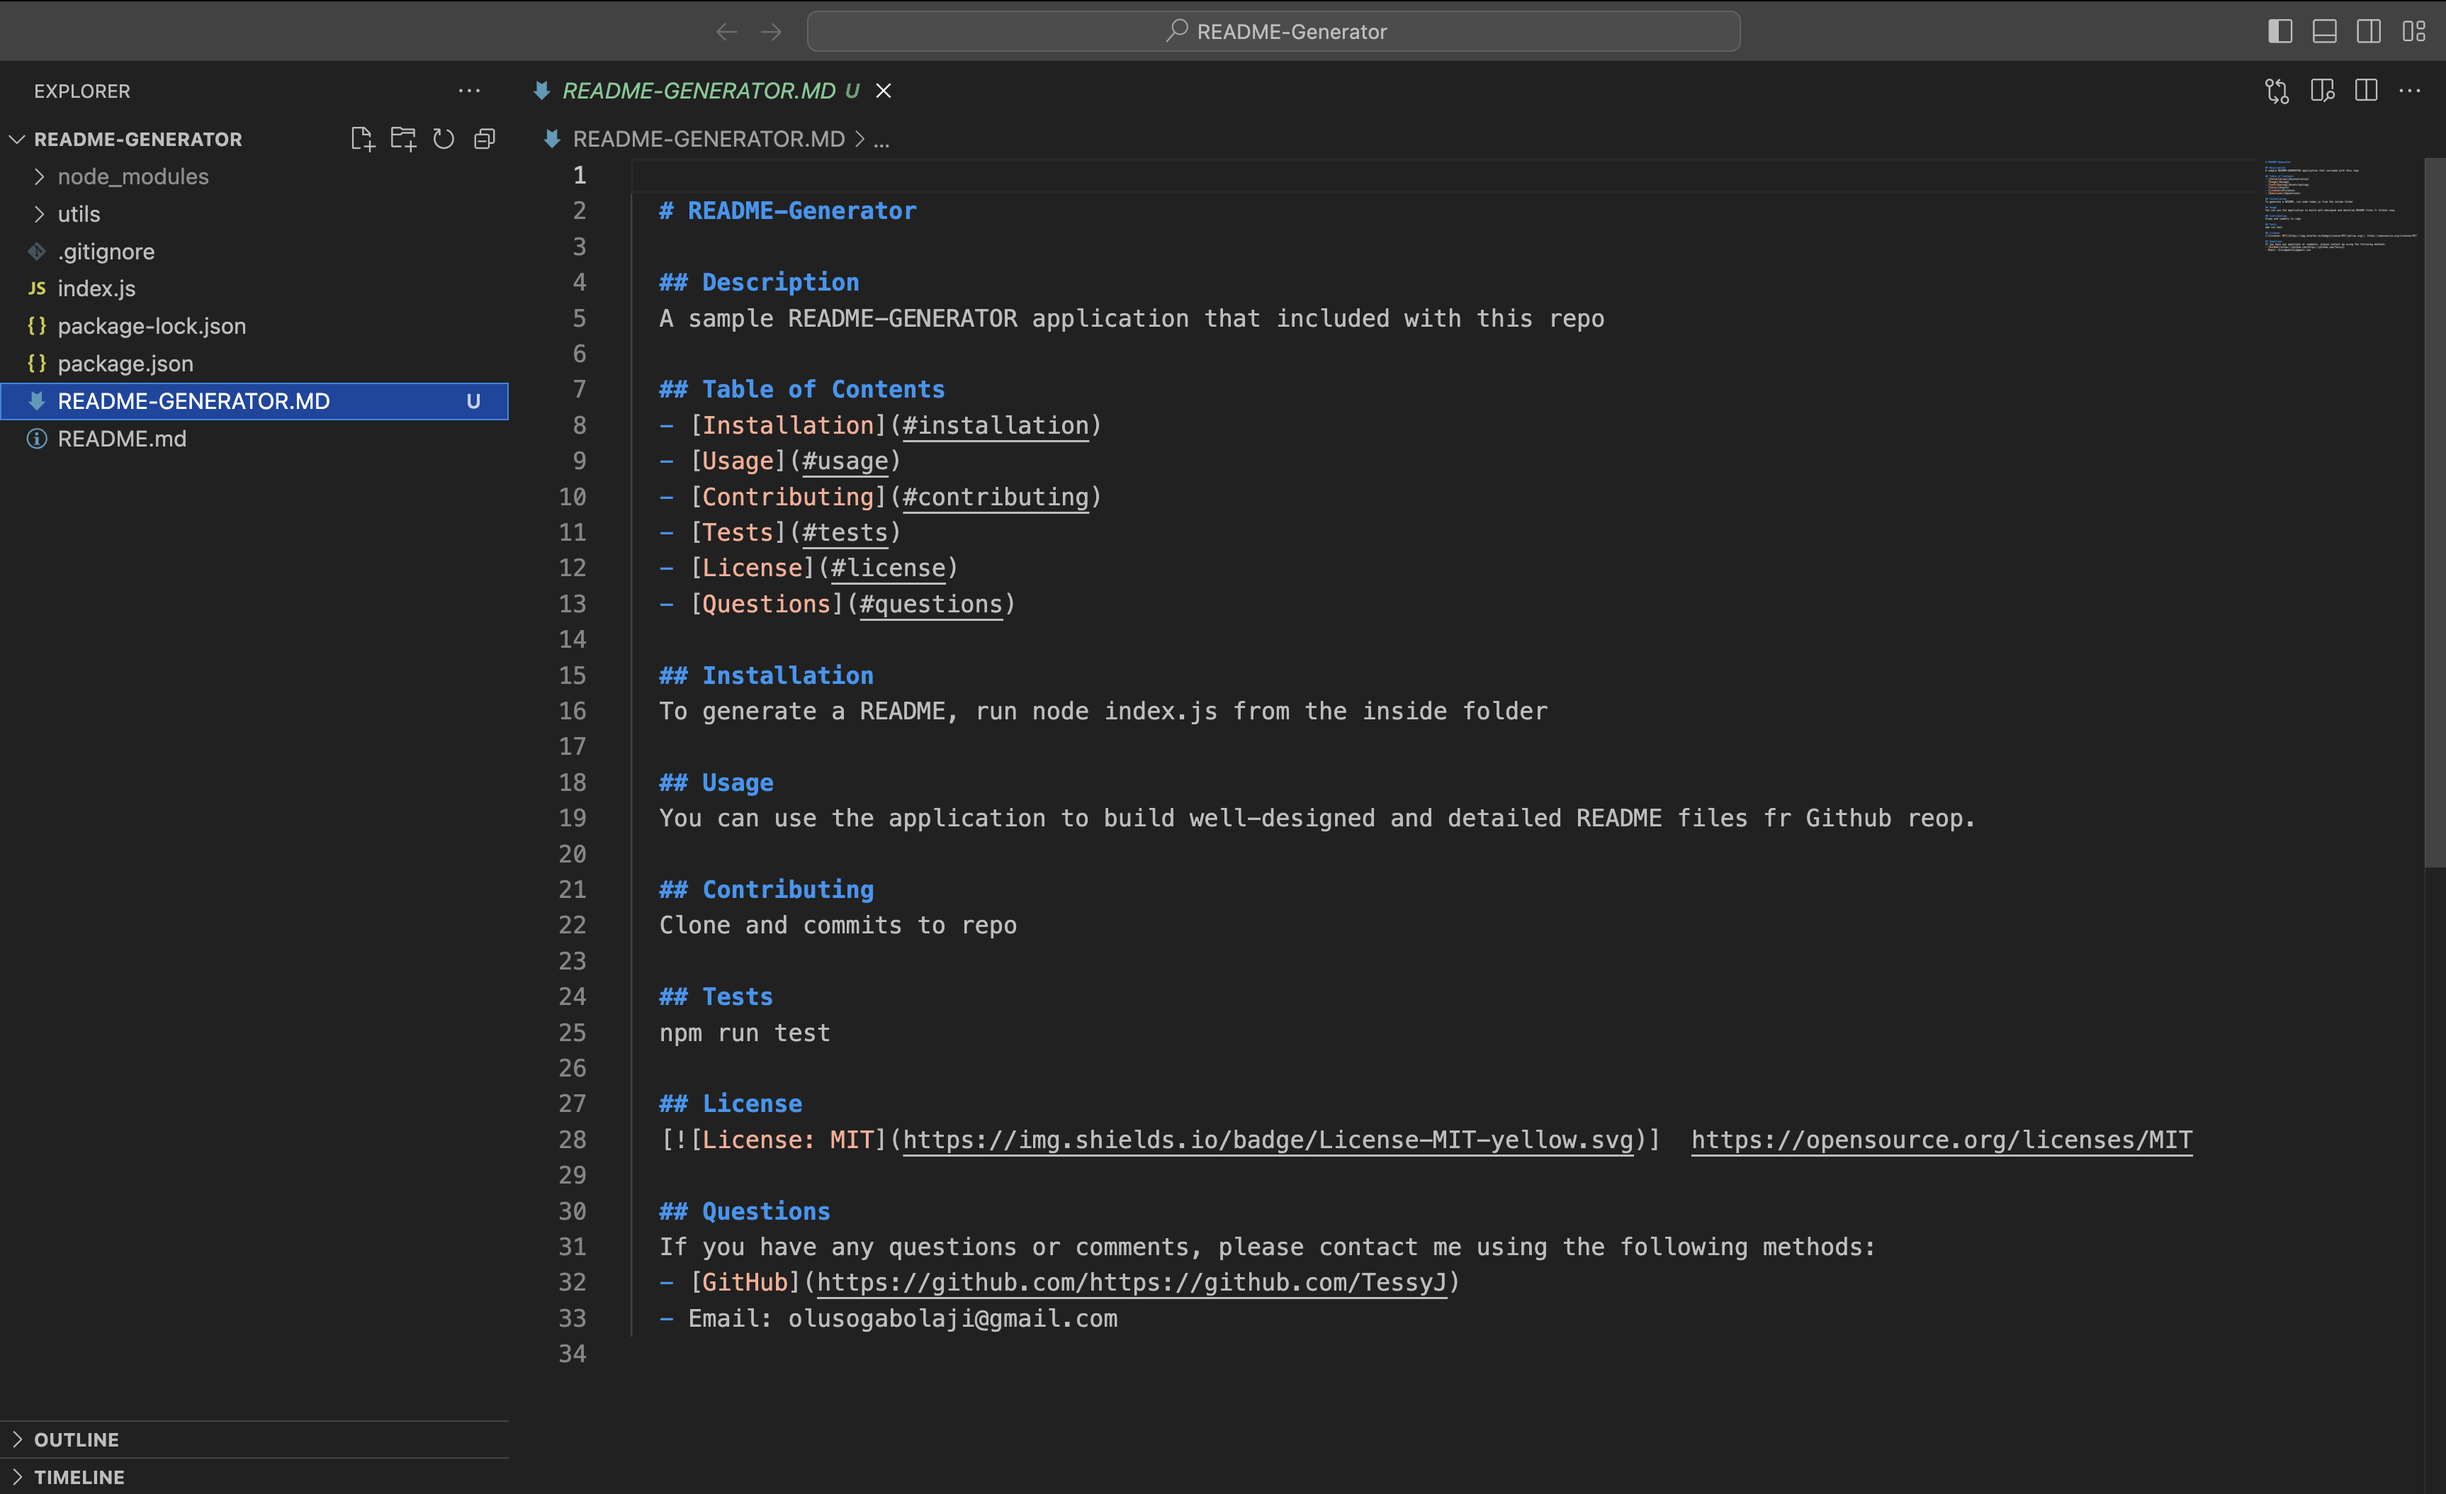
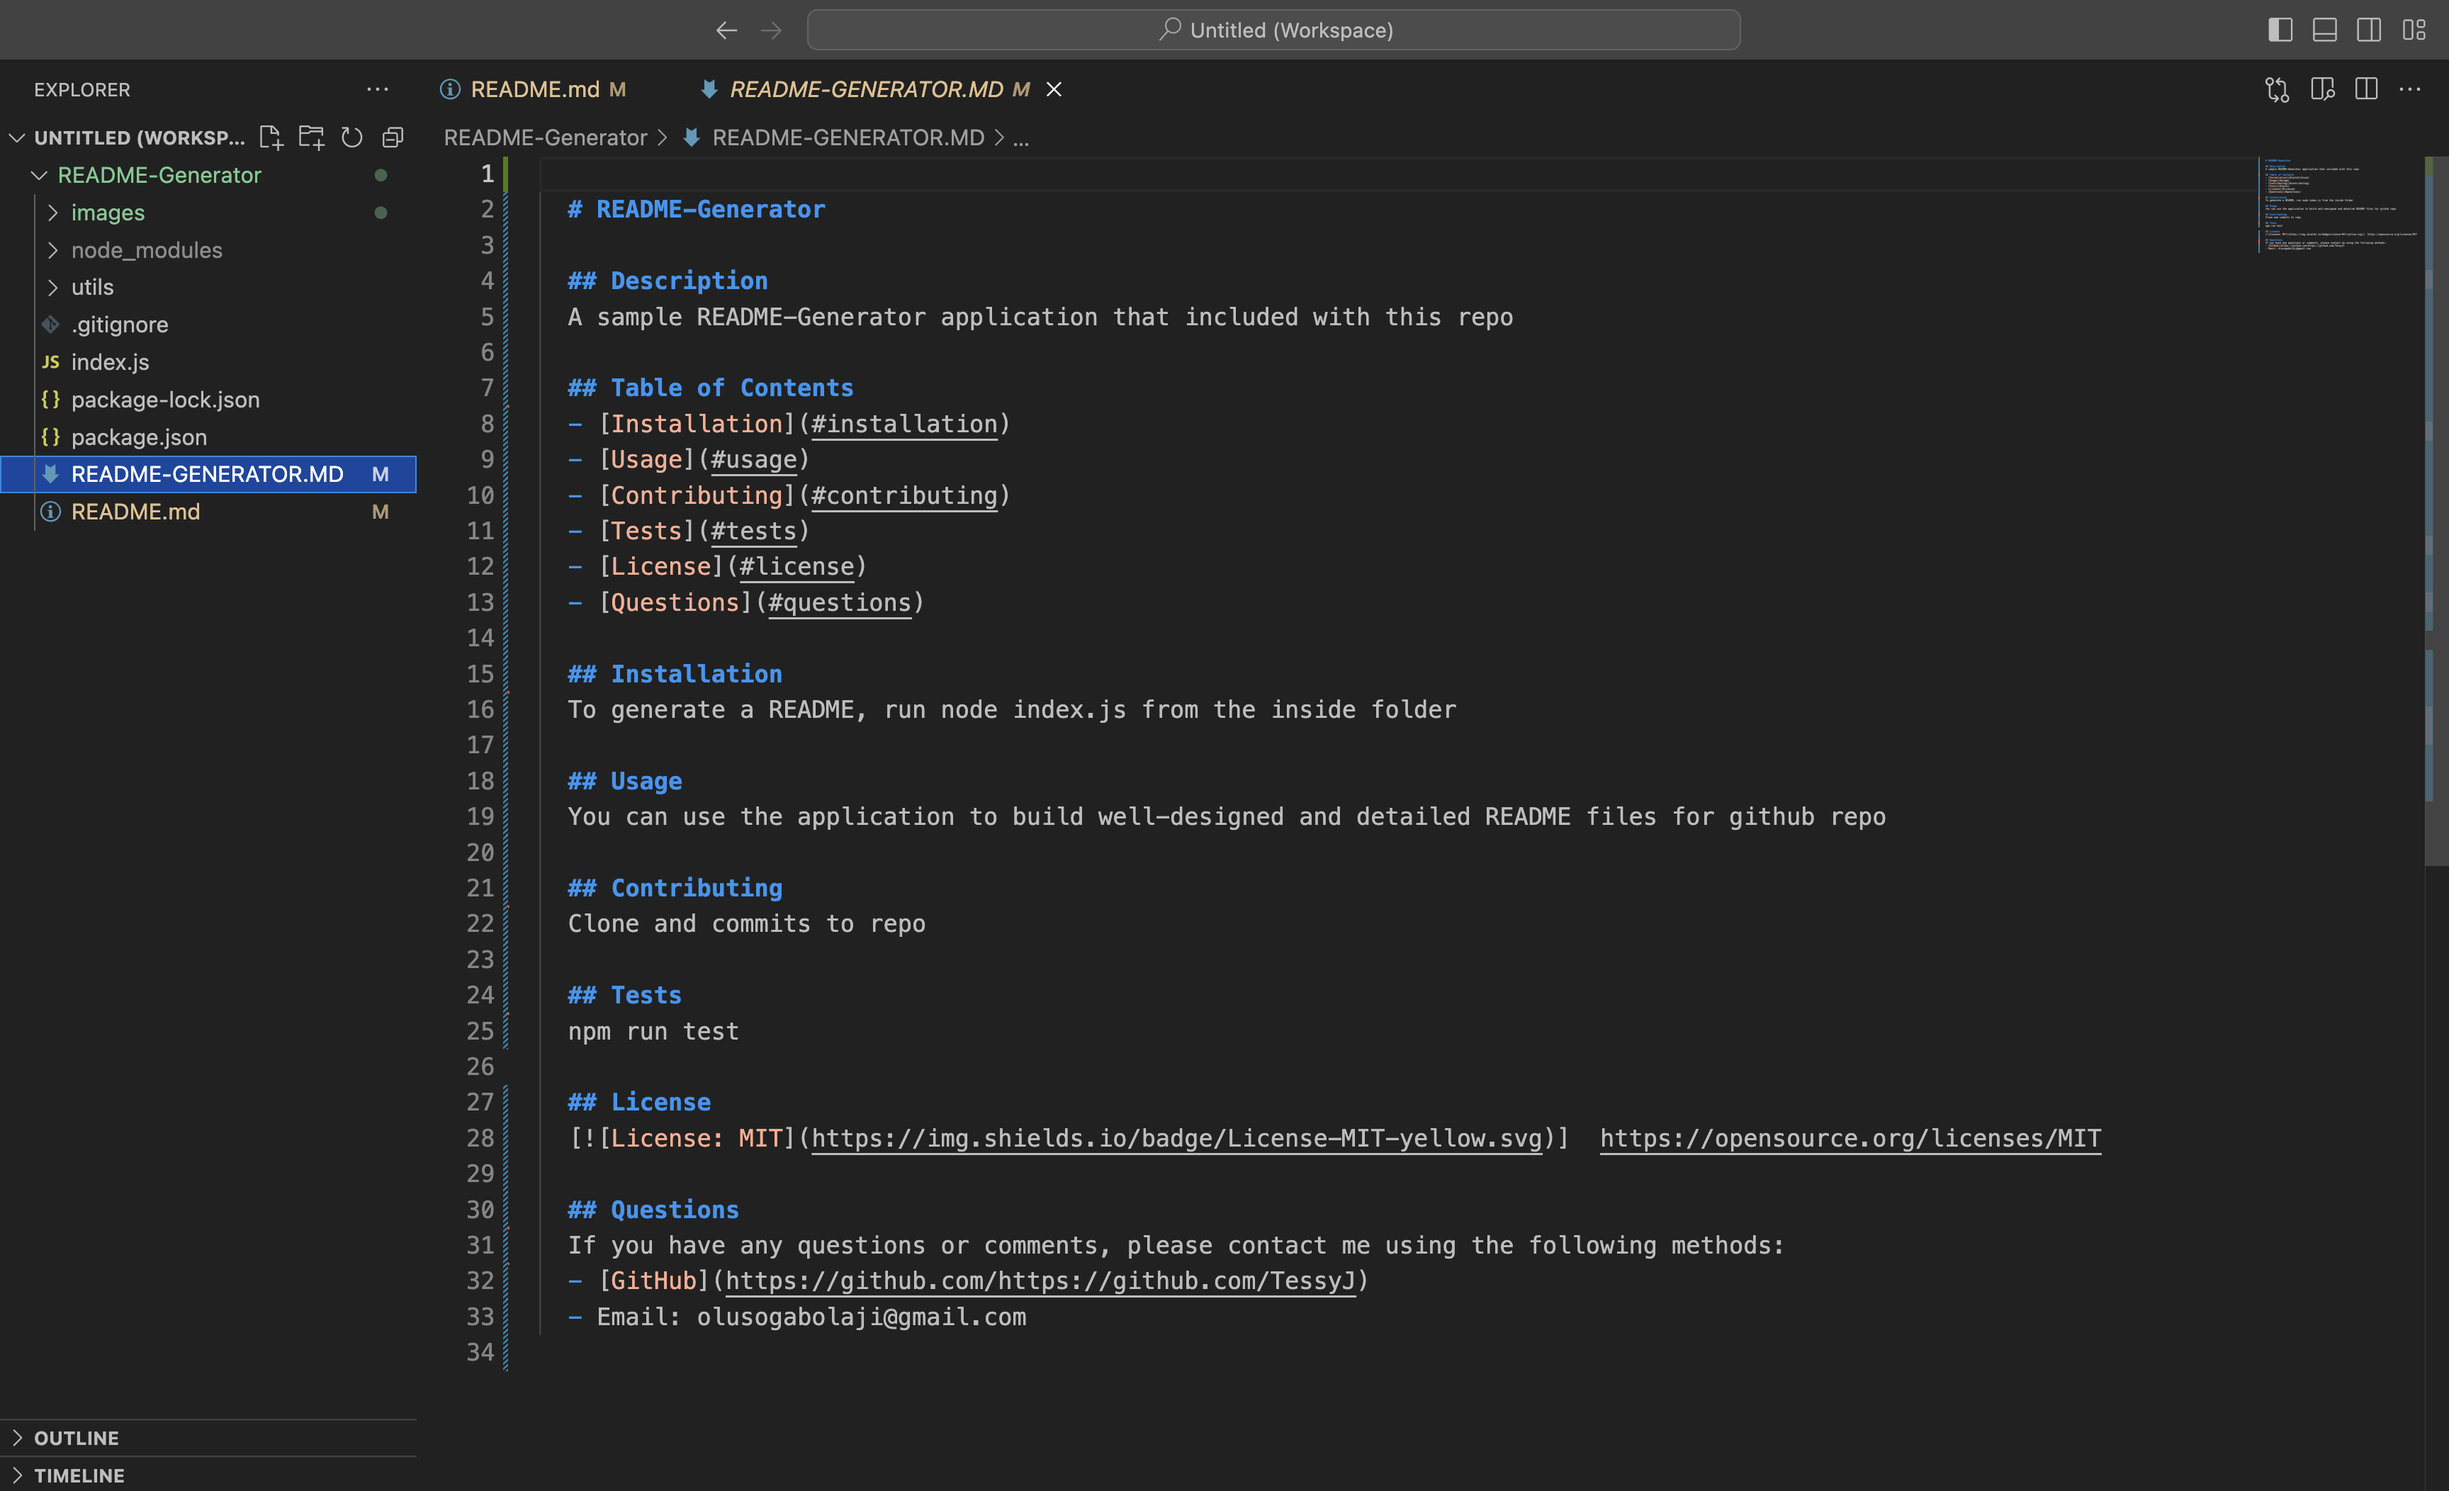
new video and readme adjusted

diff --git a/README-GENERATOR.MD b/README-GENERATOR.MD
@@ -1,41 +1,34 @@
-# README-Generator
+ 
+  # README-Generator
+  
+  ## Description
+  A sample README-Generator application that included with this repo
+  
+  ## Table of Contents
+  - [Installation](#installation)
+  - [Usage](#usage)
+  - [Contributing](#contributing)
+  - [Tests](#tests)
+  - [License](#license)
+  - [Questions](#questions)
+  
+  ## Installation
+  To generate a README, run node index.js from the inside folder
+  
+  ## Usage
+  You can use the application to build well-designed and detailed README files for github repo
+  
+  ## Contributing
+  Clone and commits to repo
+  
+  ## Tests
+  npm run test
 
-## Description
-
-A sample README-GENERATOR application that included with this repo
-
-## Table of Contents
-
-- [Installation](#installation)
-- [Usage](#usage)
-- [Contributing](#contributing)
-- [Tests](#tests)
-- [License](#license)
-- [Questions](#questions)
-
-## Installation
-
-To generate a README, run node index.js from the inside folder
-
-## Usage
-
-You can use the application to build well-designed and detailed README files for Github reop.
-
-## Contributing
-
-Clone and commits to repo
-
-## Tests
-
-npm run test
-
-## License
-
-[![License: MIT](https://img.shields.io/badge/License-MIT-yellow.svg)] https://opensource.org/licenses/MIT
-
-## Questions
-
-If you have any questions or comments, please contact me using the following methods:
-
-- [GitHub](https://github.com/https://github.com/TessyJ)
-- Email: olusogabolaji@gmail.com
+  ## License
+  [![License: MIT](https://img.shields.io/badge/License-MIT-yellow.svg)]  https://opensource.org/licenses/MIT 
+  
+  ## Questions
+  If you have any questions or comments, please contact me using the following methods:
+  - [GitHub](https://github.com/https://github.com/TessyJ)
+  - Email: olusogabolaji@gmail.com
+  

diff --git a/README.md b/README.md
@@ -22,7 +22,7 @@ A Links in the Table of Contents to the corresponding section of the README pres
 
 # The walkthrough video link
 
-https://drive.google.com/file/d/11xvedGJwjC1xdxSc-ZLb7MXFR4OF3hAh/view
+https://drive.google.com/file/d/15KVlxTw5UeCn-S_bz2PulaQtb-rrZwCN/view
 
 # Screen Shot
 
